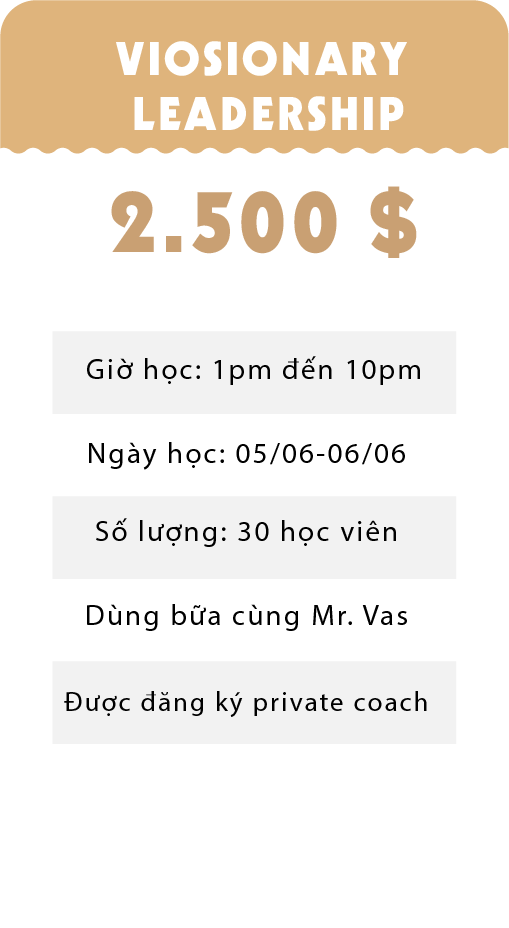
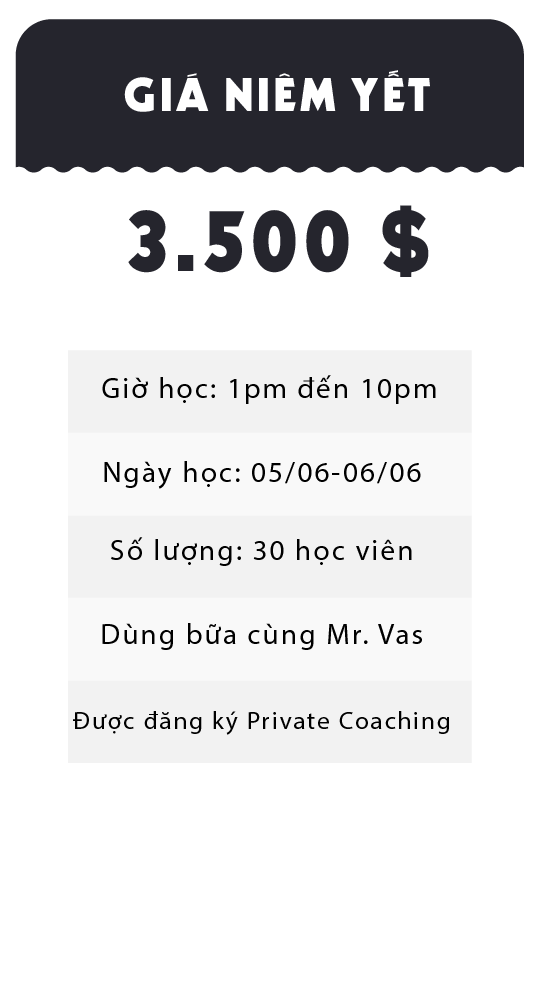
moreprice

diff --git a/src/app/page/visionary-leadership/JourneyCourse/styles/styles.scss b/src/app/page/visionary-leadership/JourneyCourse/styles/styles.scss
@@ -9,6 +9,12 @@ $border: 1px solid #4d4d4d;
 
 
 .journeyCourse{
+  text-align:center;
+  margin-top:30px;
+  background: #2b2a2b;
+  color: white;
+  margin: 0;
+  padding: 0;
   img{
   width: 100%;
   padding-top:15px;
@@ -17,101 +23,114 @@ $border: 1px solid #4d4d4d;
     height: 250px;
     object-fit: cover;
   }
-}
-    text-align:center;
-    margin-top:30px;
-    background: #2b2a2b;
-    color: white;
-    margin: 0;
-    padding: 0;
-main{
-  padding: 2rem;
-  max-width: 1400px;
-  margin: auto;
-}
-
-
-h2{
-  font-weight: 500;
-  text-align:center
-}
-
-h3{
-  font-weight: 500;
-  margin: 0.5rem 0;
-}
-
-.grid-wrapper{
-  text-align:justify;
-  // Adding grid layout for screen size above 600 
-  @media screen and (min-width: 600px){
-    display: grid;
-    grid-auto-flow: column;
-    grid-gap: 1rem;
-   
+  }
+  main{
+    padding: 2rem;
+    max-width: 1400px;
+    margin: auto;
   }
 
-  @media screen and (min-width: 1025px){
-    grid-template-columns: 1fr 2fr 1fr 2fr;
-  }
-  @media screen and (min-width: 600px) and (max-width: 1024px){
-    grid-template-columns: 1fr 2fr;
+
+  h2{
+    font-weight: 500;
+    text-align:center
   }
 
-}
-
-article{
-  p{
-    font-family: 'Karla', sans-serif;
-    font-size: 0.95rem;
-    color: #c8c8c8;
-  }
-  padding-bottom: 1rem;
-  border-bottom: $border;
-
-
-  // using Grid area to place the 4th and 8th element. 
-&:nth-child(1){
-    grid-area: 1/1/2/3;   
-  }
-  &:nth-child(6){
-    grid-area: 2/2/6/3;   
-    
-  }
-&:nth-child(7){
-    grid-area: 1/3/2/-1;   
-    @media screen and (min-width: 500px) and (max-width: 1024px){
-        grid-area: 7/1/6/3;
-    }
-  }
-  &:nth-child(12){
-    @media screen and (min-width: 1025px){
-      grid-area: 2/4/6/-1;
-    }
-    @media screen and (min-width: 500px) and (max-width: 1024px){
-      grid-area: 11/2/7/2;
-    }
+  h3{
+    font-weight: 500;
+    margin: 0.5rem 0;
   }
 
-  &:nth-child(6n+5){
-    @media screen and (min-width: 1025px){
-      border-bottom: 0;
-    }   
-  }
-  &:nth-child(6){
-    @media screen and (min-width: 1025px){
-      border-right: $border;
-      padding-right: 1rem;
-    }
-
-  }
-  &:nth-child(6n){
+  .grid-wrapper{
+    text-align:justify;
+    // Adding grid layout for screen size above 600 
     @media screen and (min-width: 600px){
-      border-left: $border;
-      border-bottom: 0;
-      padding-left: 1rem;
+      display: grid;
+      grid-auto-flow: column;
+      grid-gap: 1rem;
+    
+    }
+
+    @media screen and (min-width: 1025px){
+      grid-template-columns: 1fr 2fr 1fr 2fr;
+    }
+    @media screen and (min-width: 600px) and (max-width: 1024px){
+      grid-template-columns: 1fr 2fr;
+    }
+
+  }
+
+  article{
+    p{
+      font-family: 'Karla', sans-serif;
+      font-size: 0.95rem;
+      color: #c8c8c8;
+    }
+    padding-bottom: 1rem;
+    border-bottom: $border;
+
+
+    // using Grid area to place the 4th and 8th element. 
+  &:nth-child(1){
+      grid-area: 1/1/2/3;   
+    }
+    &:nth-child(6){
+      grid-area: 2/2/6/3;   
+      
+    }
+  &:nth-child(7){
+      grid-area: 1/3/2/-1;   
+      @media screen and (min-width: 500px) and (max-width: 1024px){
+          grid-area: 7/1/6/3;
+      }
+    }
+    &:nth-child(12){
+      @media screen and (min-width: 1025px){
+        grid-area: 2/4/6/-1;
+      }
+      @media screen and (min-width: 500px) and (max-width: 1024px){
+        grid-area: 11/2/7/2;
+      }
+    }
+
+    &:nth-child(6n+5){
+      @media screen and (min-width: 1025px){
+        border-bottom: 0;
+      }   
+    }
+    &:nth-child(6){
+      @media screen and (min-width: 1025px){
+        border-right: $border;
+        padding-right: 1rem;
+      }
+
+    }
+    &:nth-child(6n){
+      @media screen and (min-width: 600px){
+        border-left: $border;
+        border-bottom: 0;
+        padding-left: 1rem;
+      }
     }
   }
-}
+  .video{
+    margin-bottom:30px;
+    iframe{
+    min-height:315px;
+    width:100%;
+    }
+  }
+  @media screen and (min-width: 992px){
+    .video{
+      width:100%;
+       display:flex;
+      justify-content:center;
+      align-items:center;
+     iframe{
+       width:50%;
+       
+     }
+    }
+  }  
 }
 

diff --git a/src/app/page/visionary-leadership/Pricing/index.js b/src/app/page/visionary-leadership/Pricing/index.js
@@ -1,11 +1,13 @@
 import React from 'react'
 import "./styles/styles.scss"
-import price from "assets/images/price01.png";
+import price01 from "assets/images/price01.png";
+import price02 from "assets/images/price02.png";
 function Princing() {
     return (
         <div className="pricing area-pd">
         <div className="container">
-    <img src={price} className="img-responsive" alt="Image"/>
+          <img src={price01} className="img-responsive" alt="Image"/>
+          <img src={price02} className="img-responsive" alt="Image"/>
 
   {/* <div className="row flex-items-xs-middle flex-items-xs-center">
 

diff --git a/src/app/page/visionary-leadership/Pricing/styles/styles.scss b/src/app/page/visionary-leadership/Pricing/styles/styles.scss
@@ -77,7 +77,6 @@ $main-font-weight: 300;
     color: $main-font-color;
     font-weight: $main-font-weight;
   }
-
 }
 
 // Price
@@ -121,5 +120,18 @@ $main-font-weight: 300;
 }
 }
 
-// Tables
+// mobile
 
+@media screen and (max-width: 540px) {
+    .pricing {
+      .container{
+        display:block;
+        text-align:center;
+        height:auto;
+        img{
+          display:unset;
+          width:90%;
+        }
+      }
+    }
+  }

diff --git a/src/app/page/visionary-leadership/JourneyCourse/index.js b/src/app/page/visionary-leadership/JourneyCourse/index.js
@@ -64,6 +64,9 @@ function JourneyCourse() {
         <img src={JC02} alt="Book Open"  />
       </article>
     </div>
+    <div className="video">
+      <iframe src="https://www.youtube.com/embed/5tIZsrqFCAk" title="YouTube video player" frameborder="0" allow="accelerometer; autoplay; clipboard-write; encrypted-media; gyroscope; picture-in-picture" allowfullscreen></iframe>
+    </div>
   </section>
         </div>
         </div>
